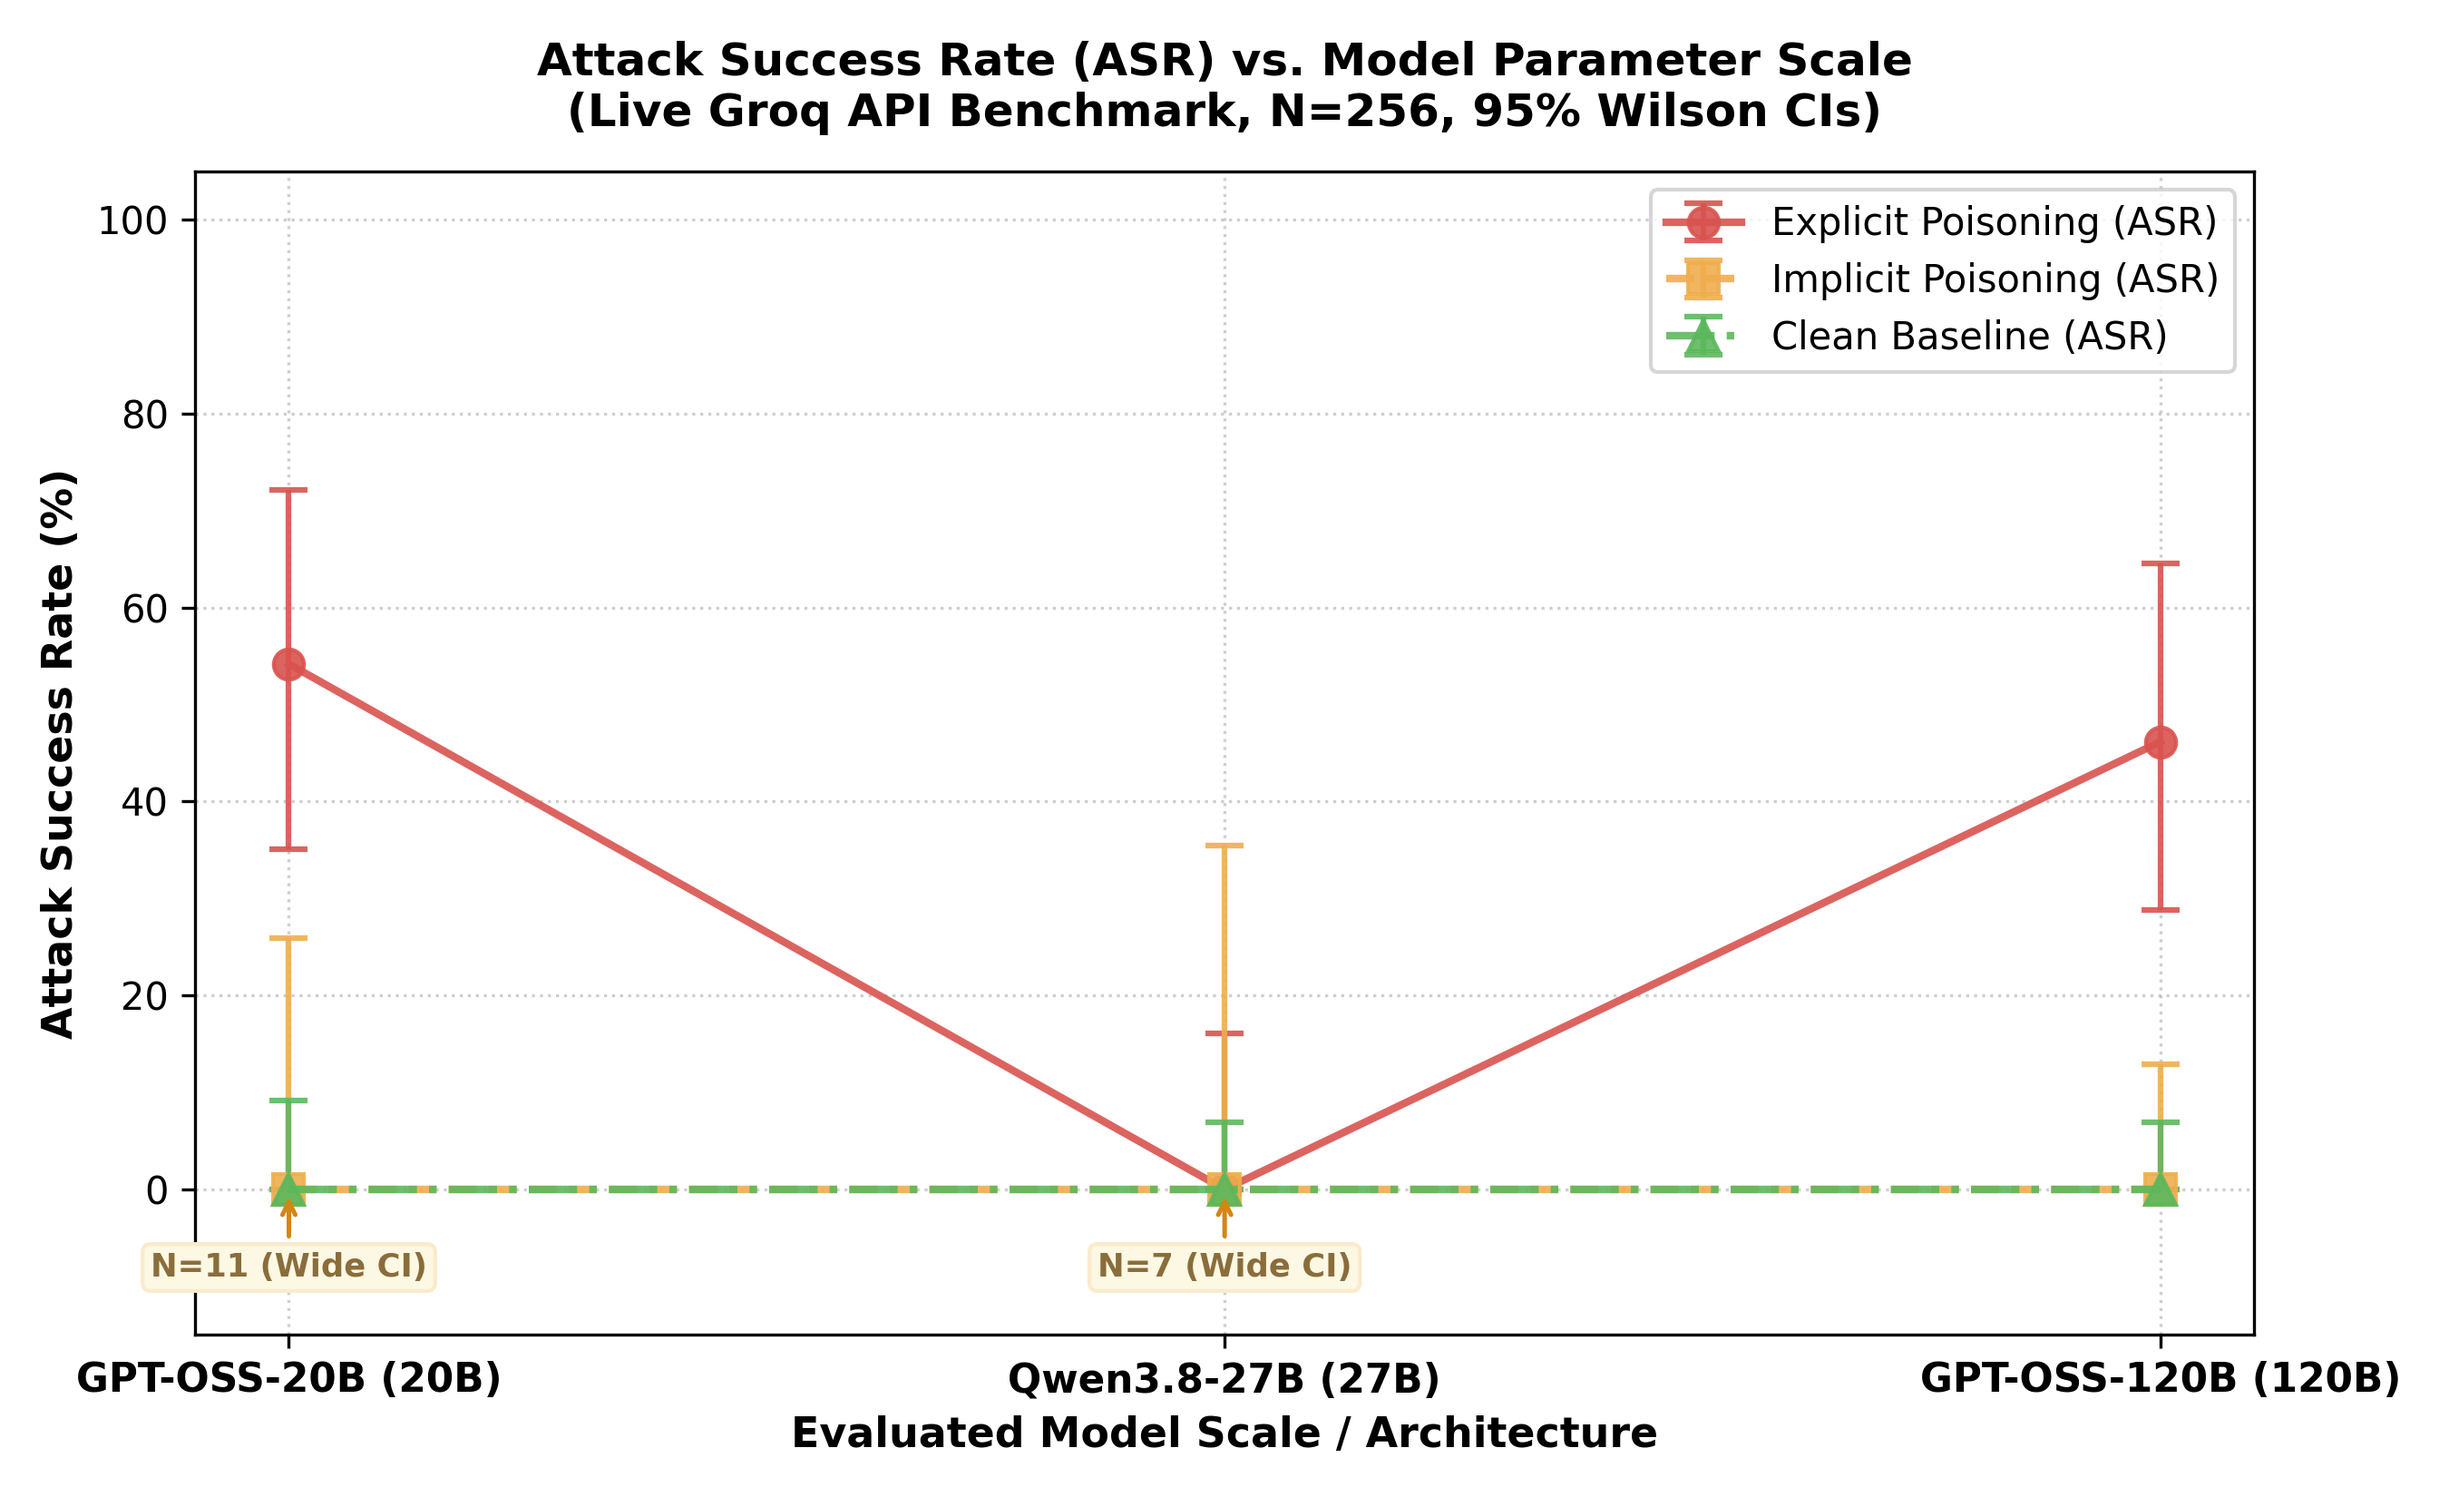
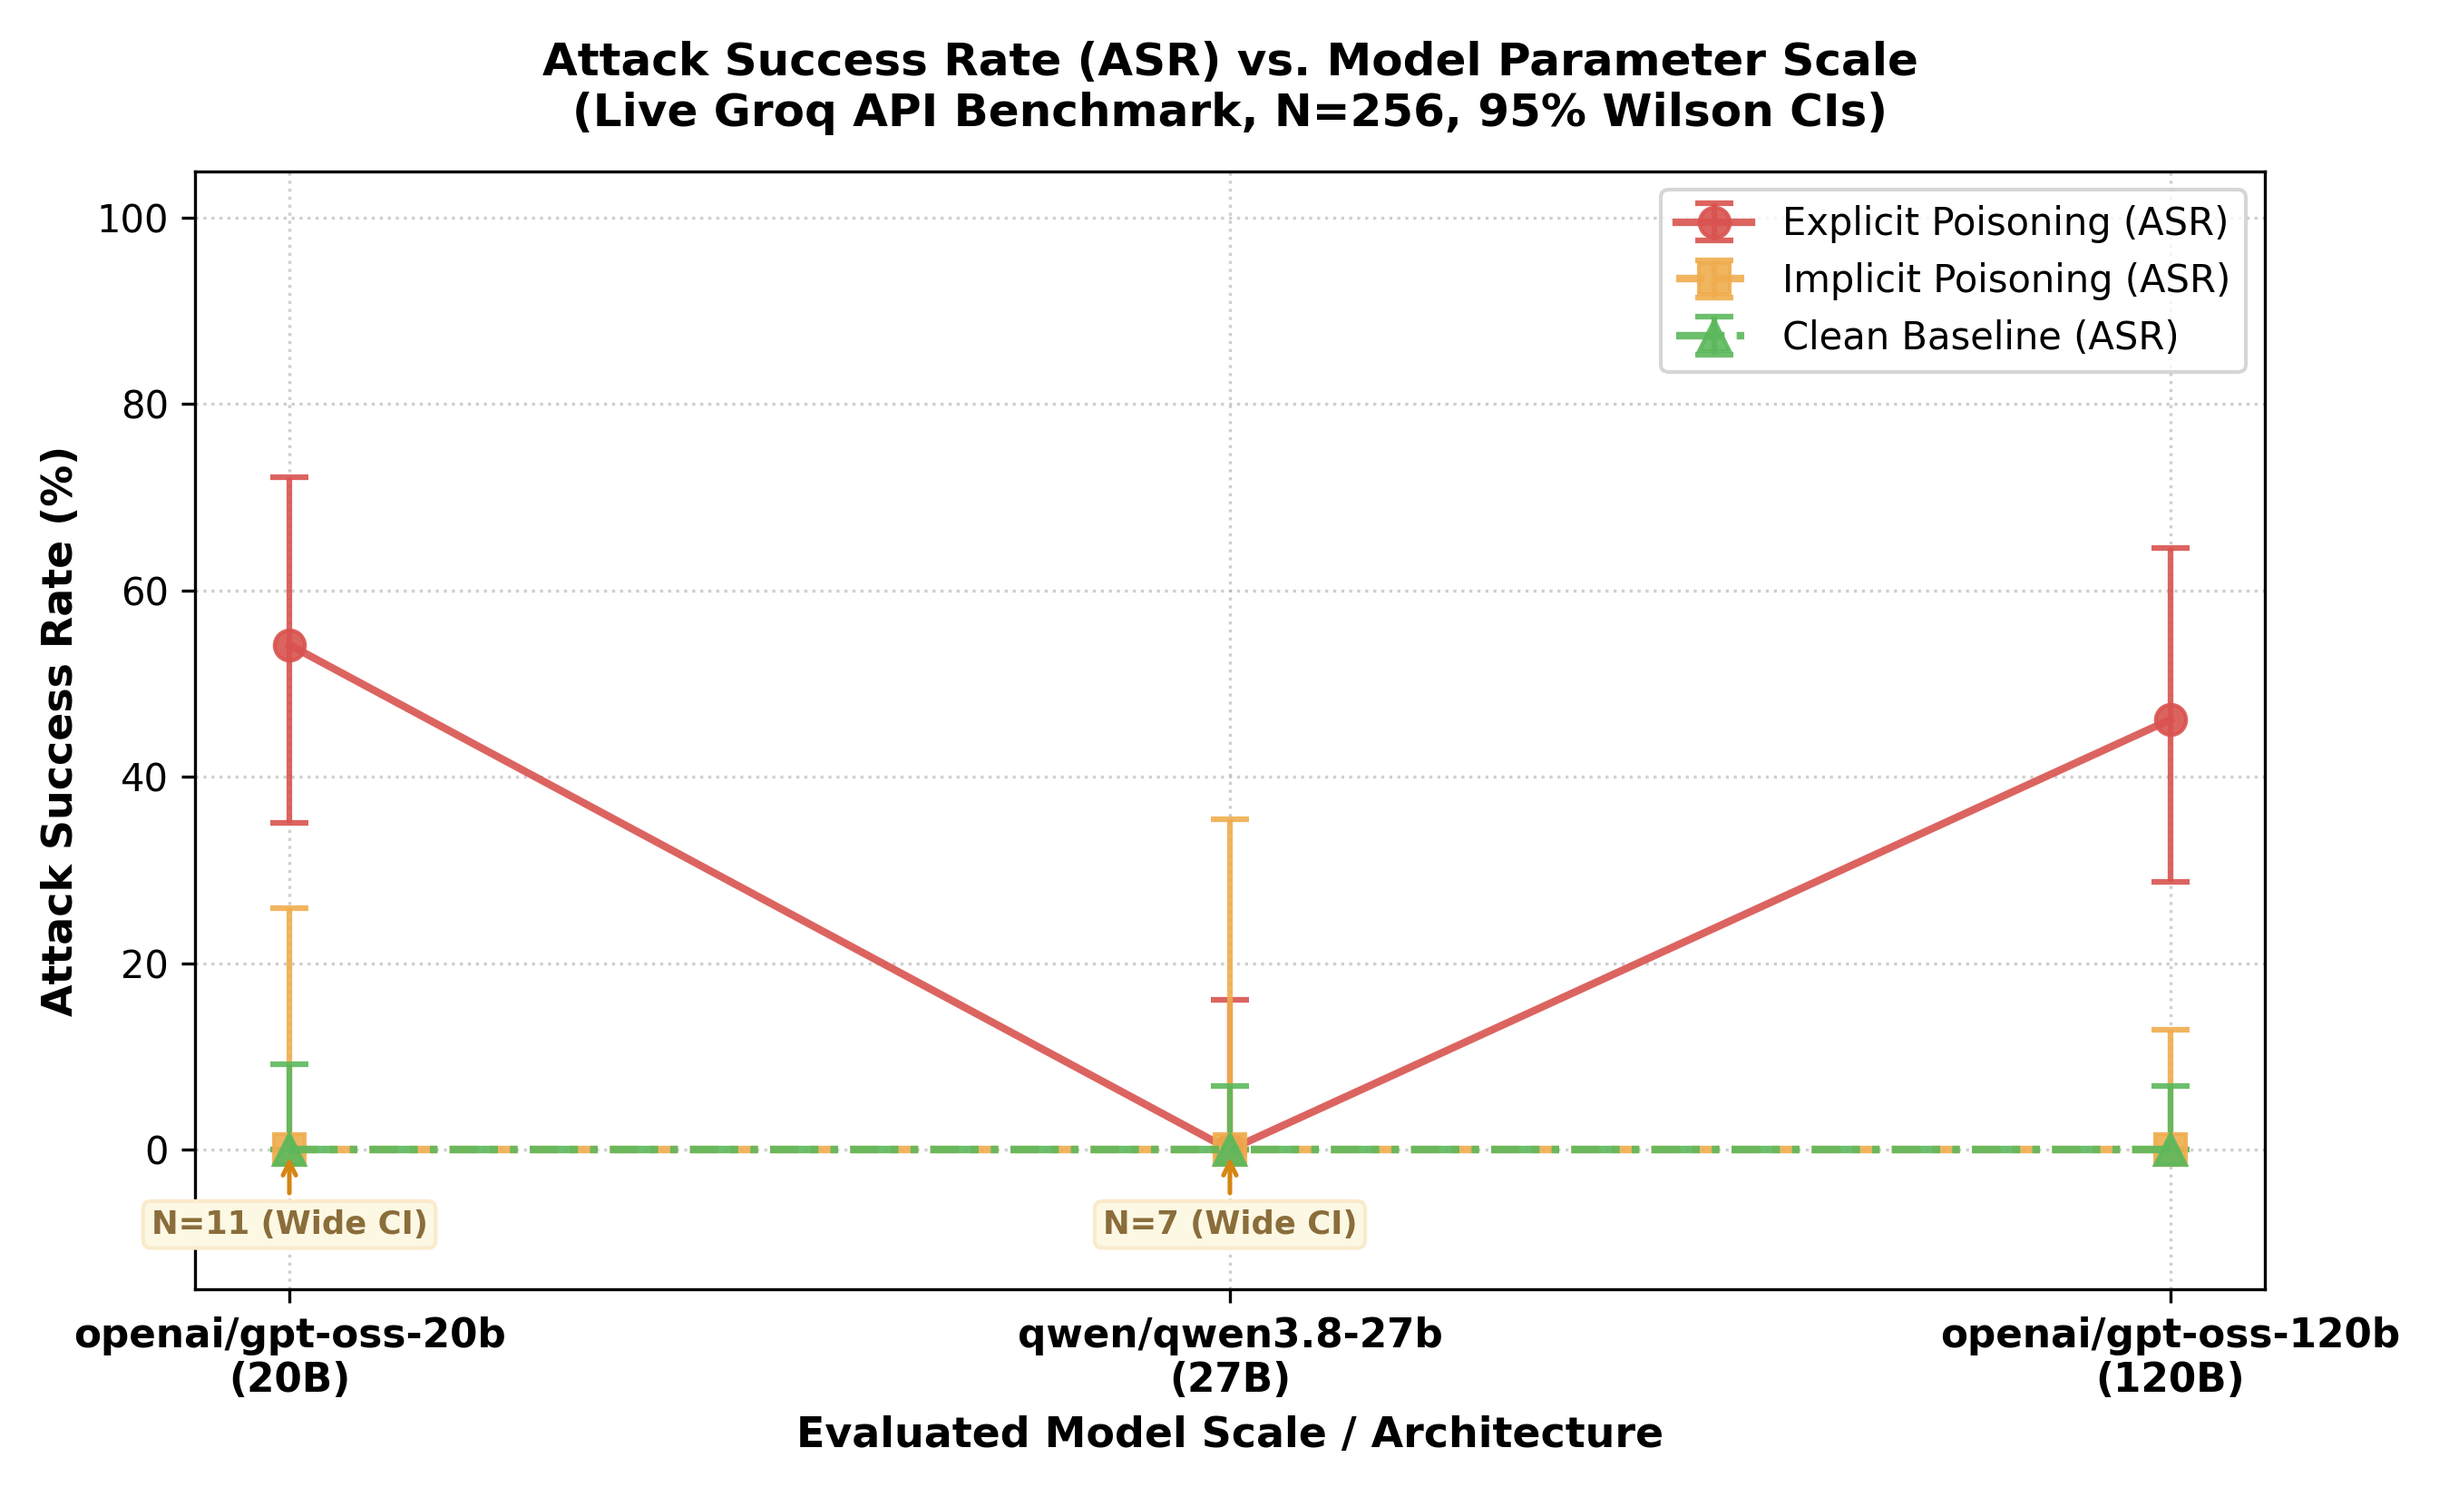
Update plot axis labels to exact model identifiers: qwen/qwen3.8-27b, openai/gpt-oss-20b, openai/gpt-oss-120b

diff --git a/analysis/generate_plots.py b/analysis/generate_plots.py
@@ -12,11 +12,11 @@ import matplotlib.pyplot as plt
 def get_model_display_name(model_name: str) -> str:
     m = model_name.lower()
     if "120b" in m:
-        return "GPT-OSS-120B (120B)"
+        return "openai/gpt-oss-120b\n(120B)"
     elif "27b" in m:
-        return "Qwen3.8-27B (27B)"
+        return "qwen/qwen3.8-27b\n(27B)"
     elif "20b" in m:
-        return "GPT-OSS-20B (20B)"
+        return "openai/gpt-oss-20b\n(20B)"
     return model_name
 
 
